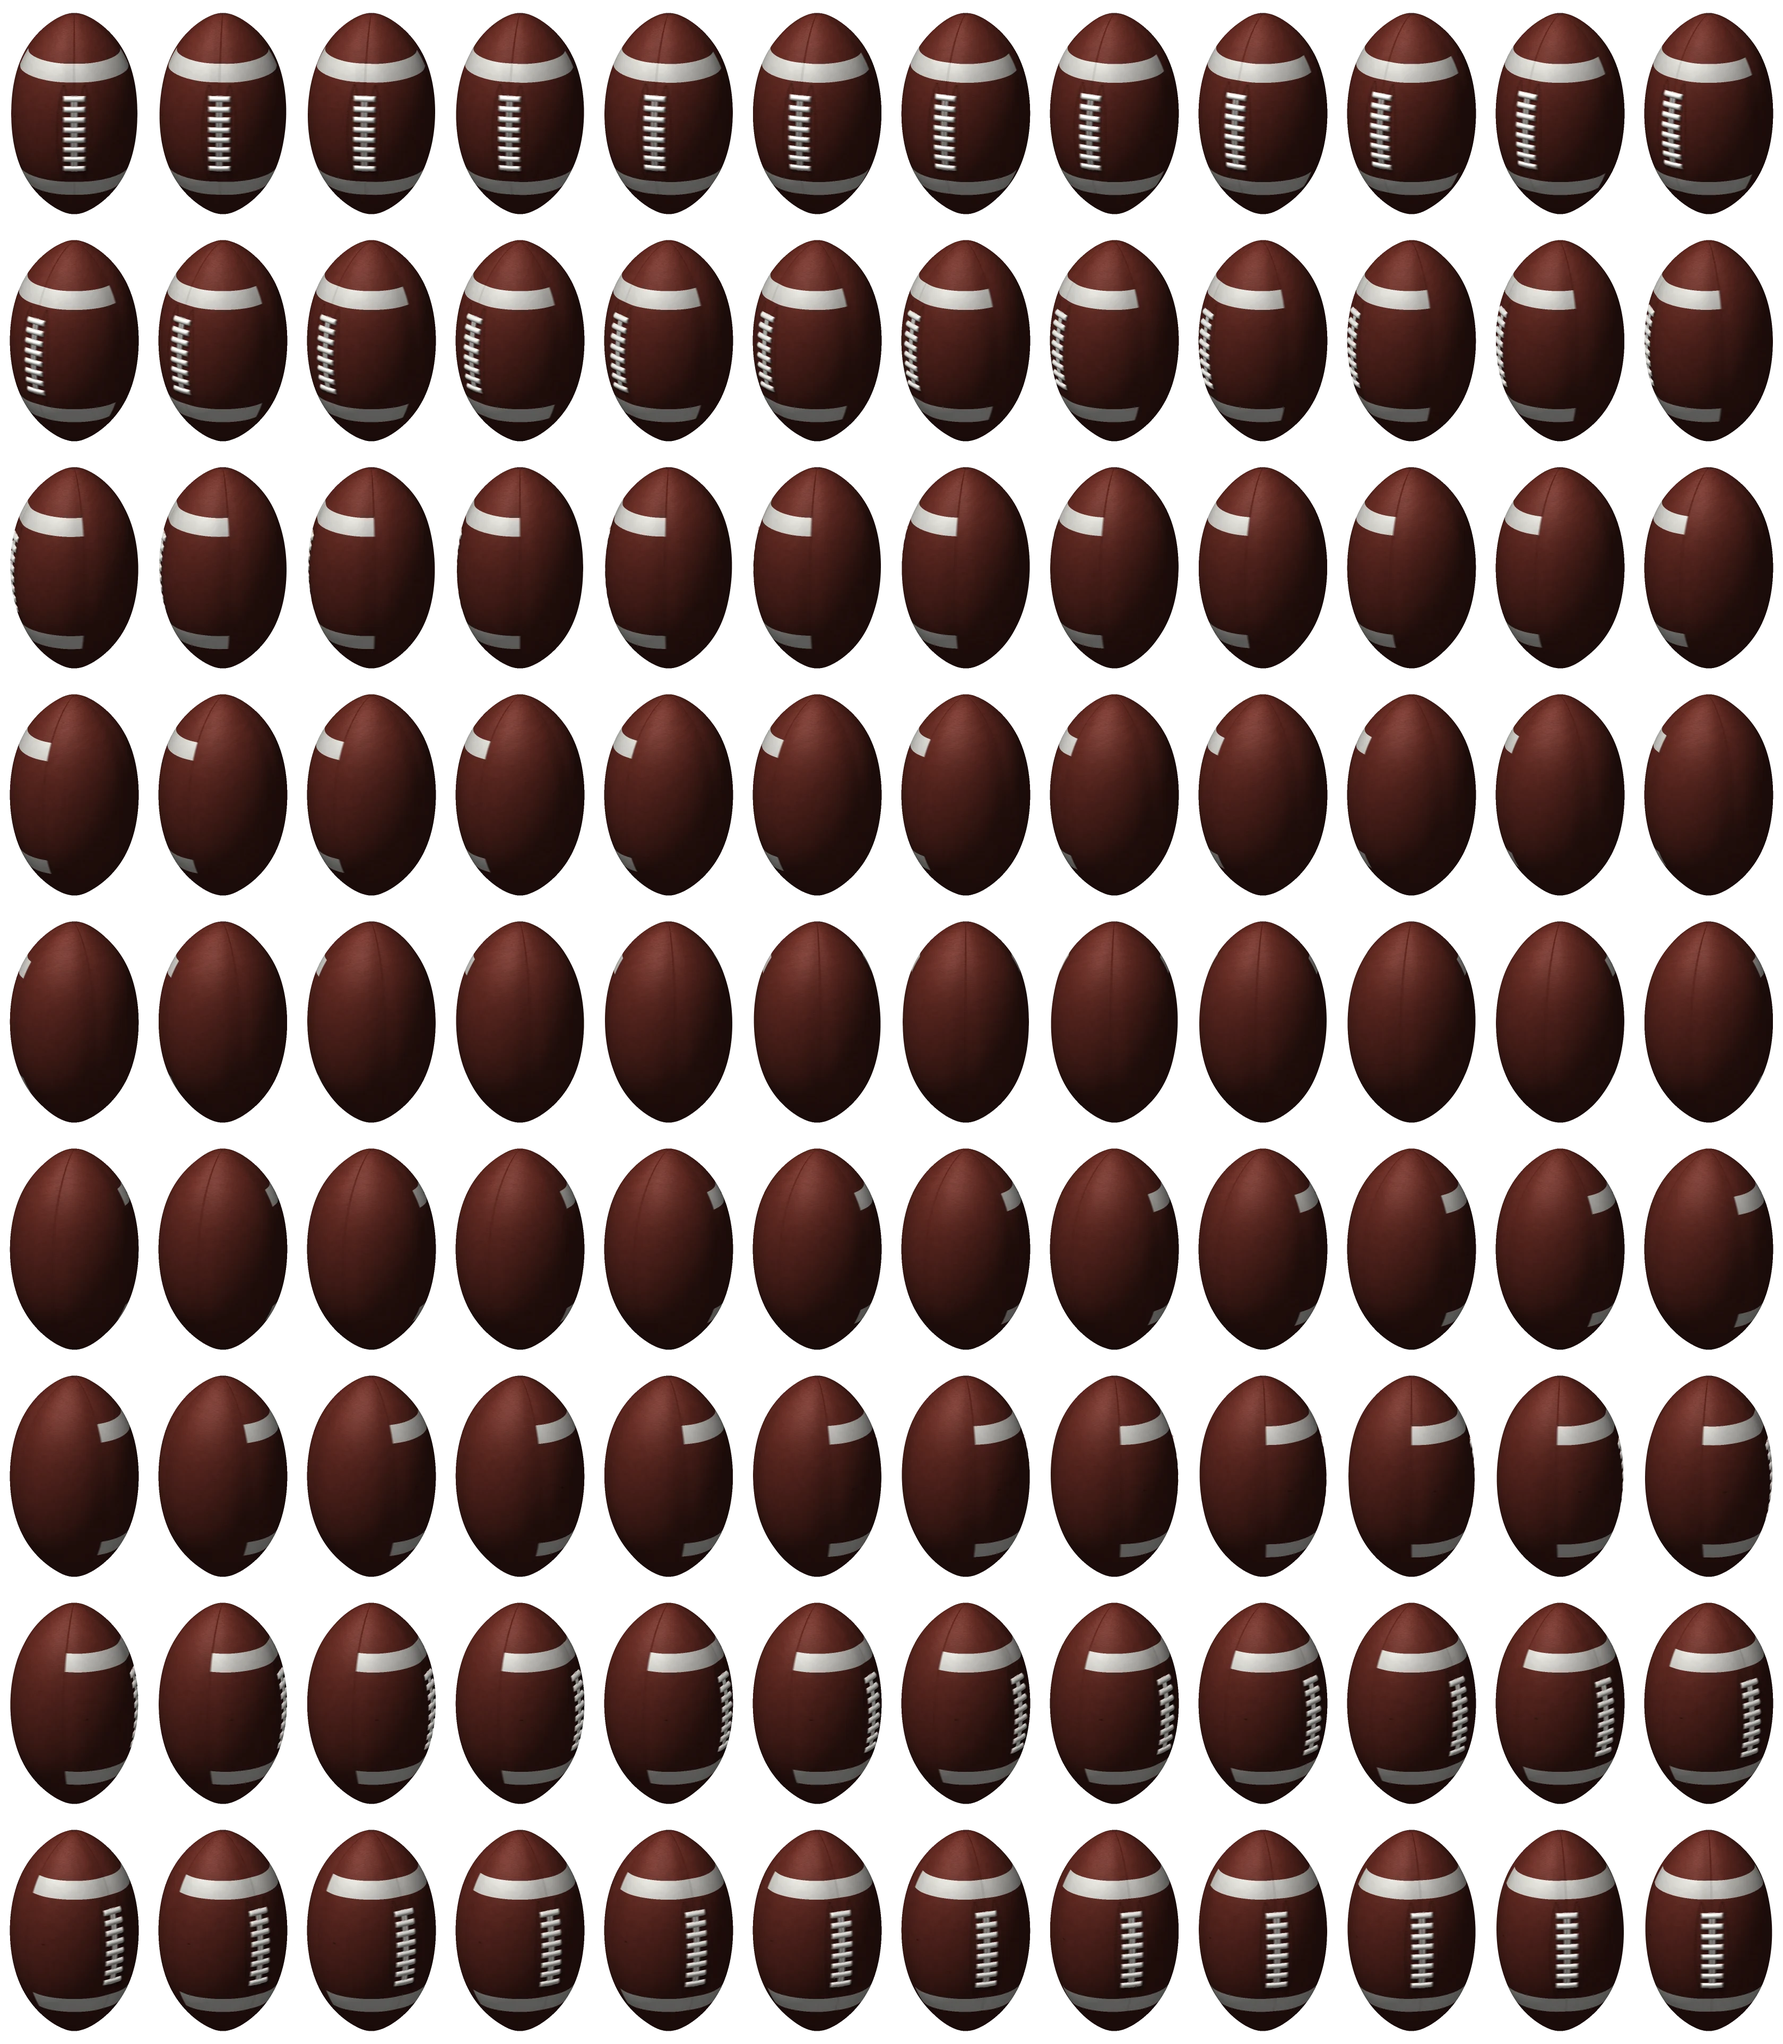
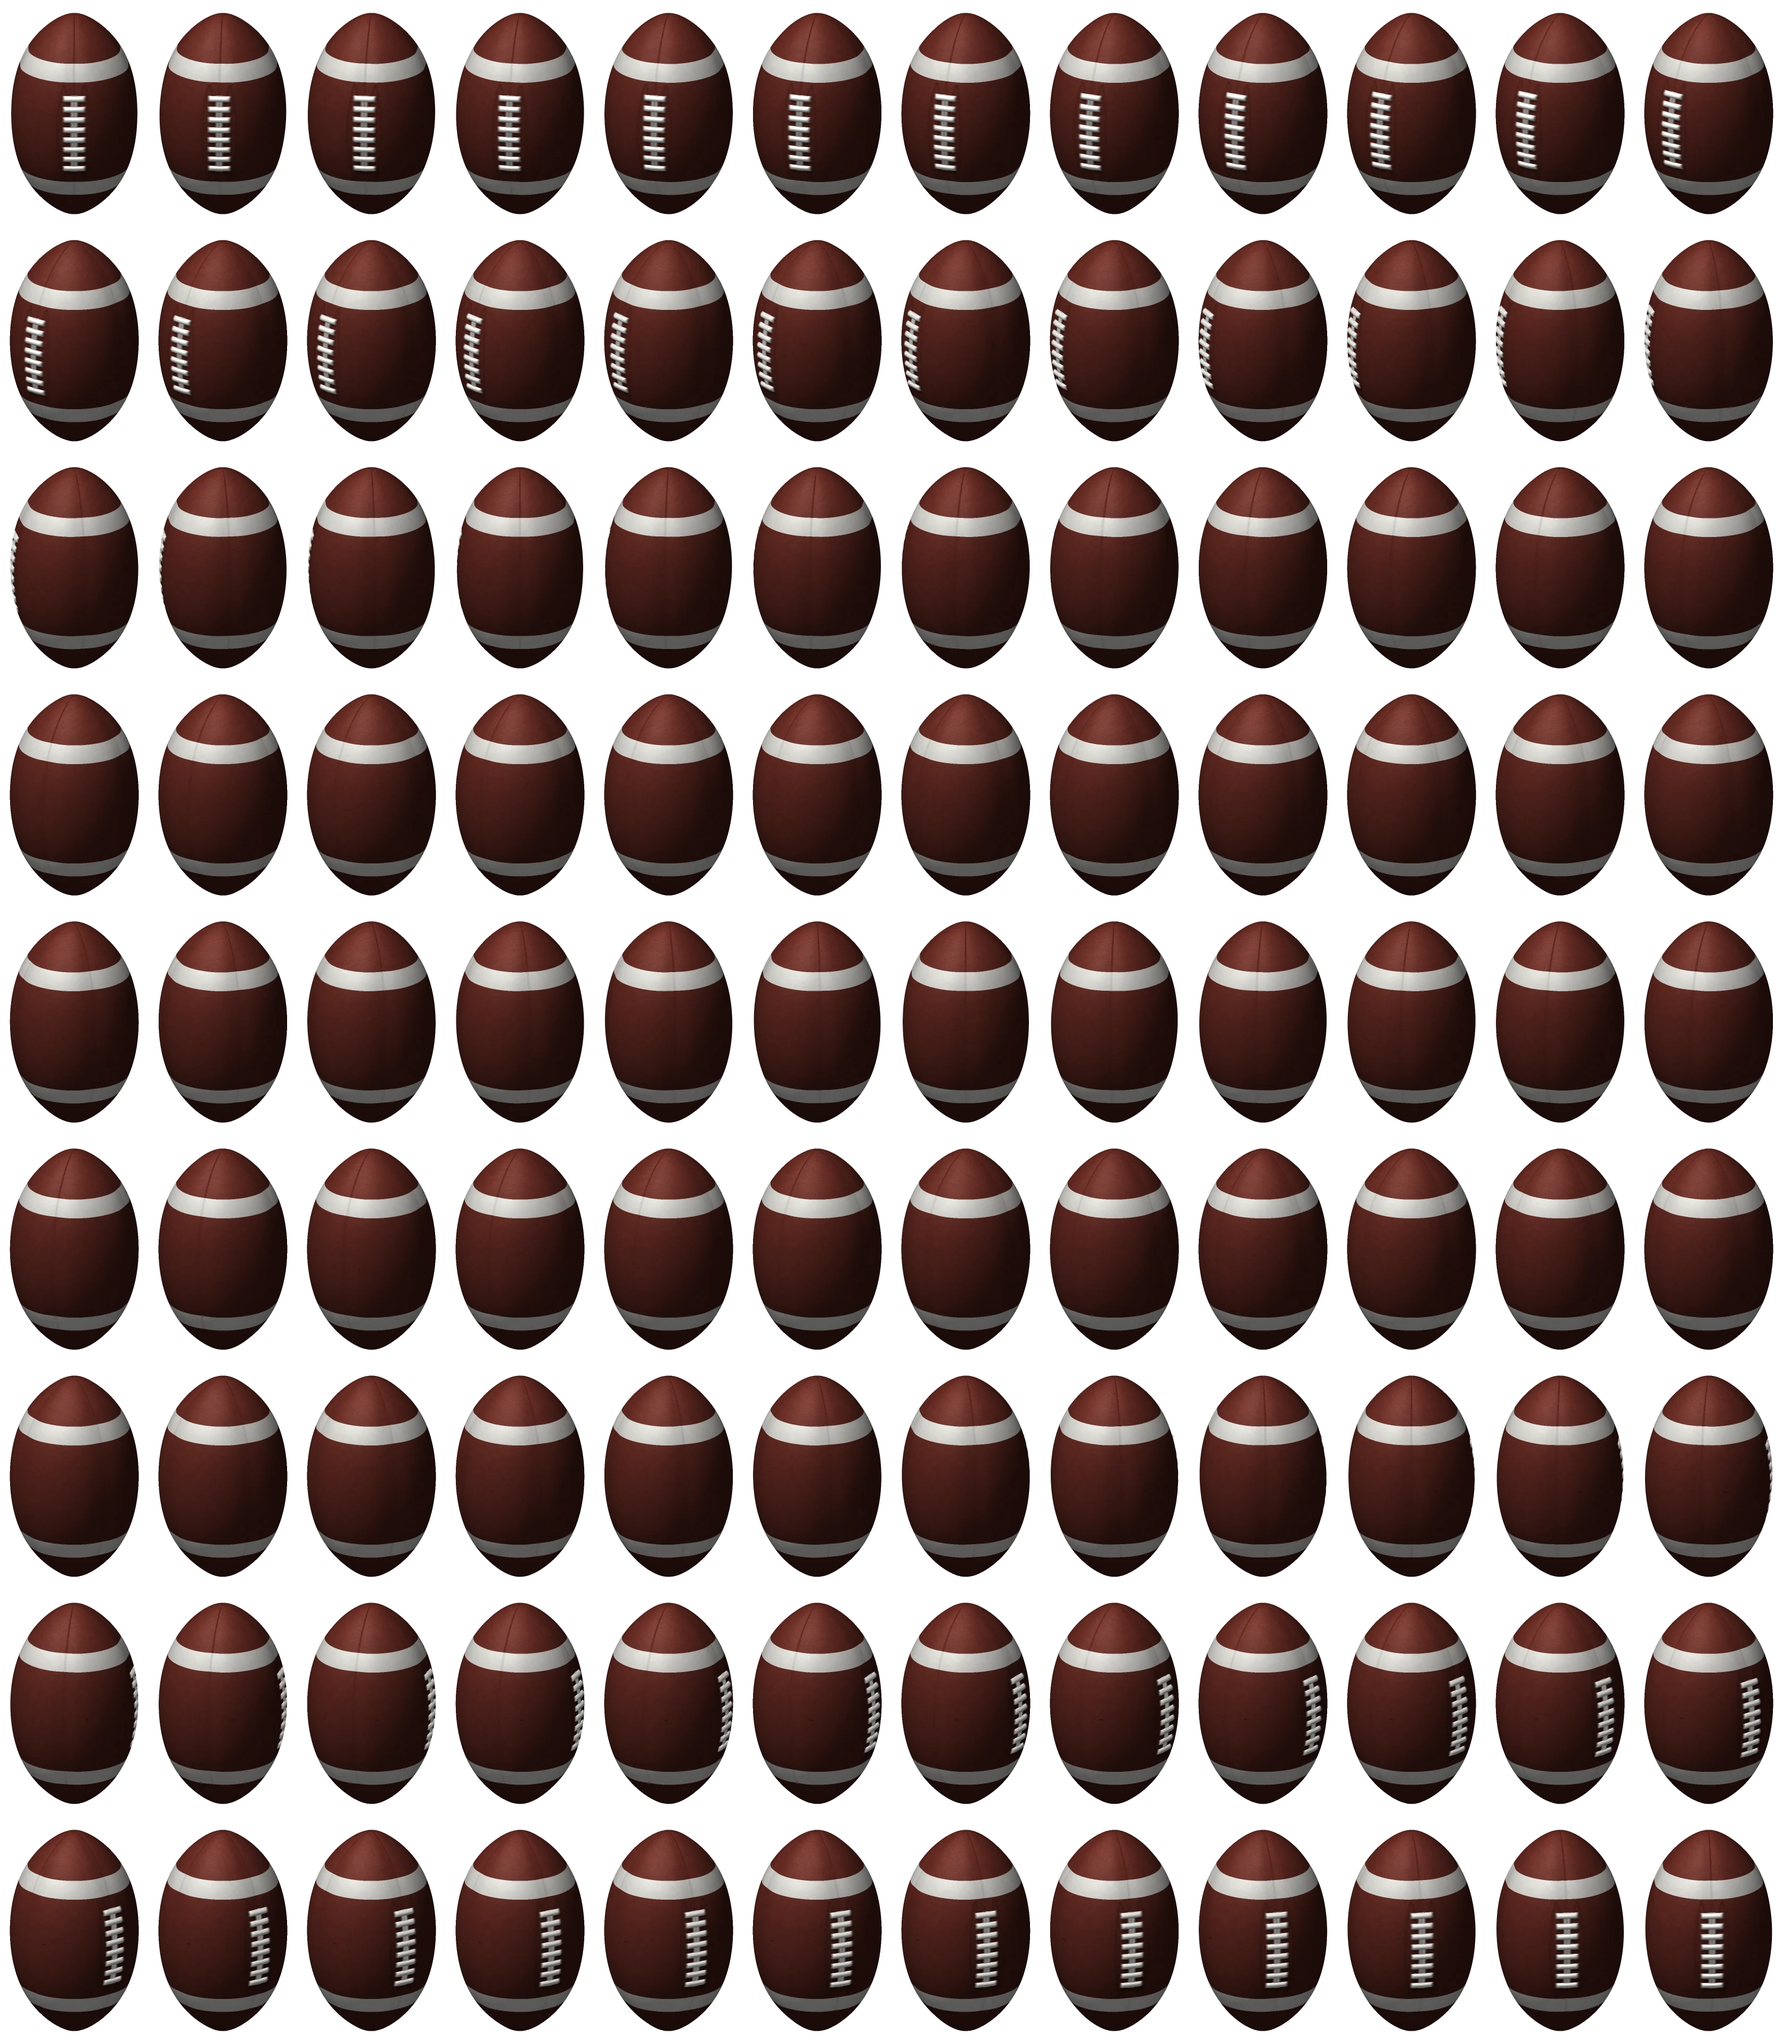
Football: stripes wrap the whole ball, so it stops pulsing
The ball's white stripes covered only the front half, so its average brightness swung about 40% once per turn (dark plain leather at the back, bright stripes and laces at the front), which read as pulsing. The stripes now wrap all the way round, like a real football: the swing drops to about 13% and the outline stays steady (area swing 1.3%). Same 108 motion-blurred frames, grid and timing; rendered from football-stills/football-v17.html.

diff --git a/src/components/football-loader.tsx b/src/components/football-loader.tsx
@@ -3,7 +3,7 @@
 import { useLayoutEffect } from "react";
 
 /**
- * The loading football: the approved ball (ray-cast in 3D, football-stills/football-v16.html), pre-rendered as 108
+ * The loading football: the approved ball (ray-cast in 3D, football-stills/football-v17.html), pre-rendered as 108
  * motion-blurred frames of one turn (public/football-spin.webp, a 12 x 9 grid kept under the 4096 px an iPhone will draw at
  * full size), stepped through by CSS and tipped nose-up (no wobble by default). Nothing runs in JavaScript while it spins.
  * With reduced motion it is a still ball.
